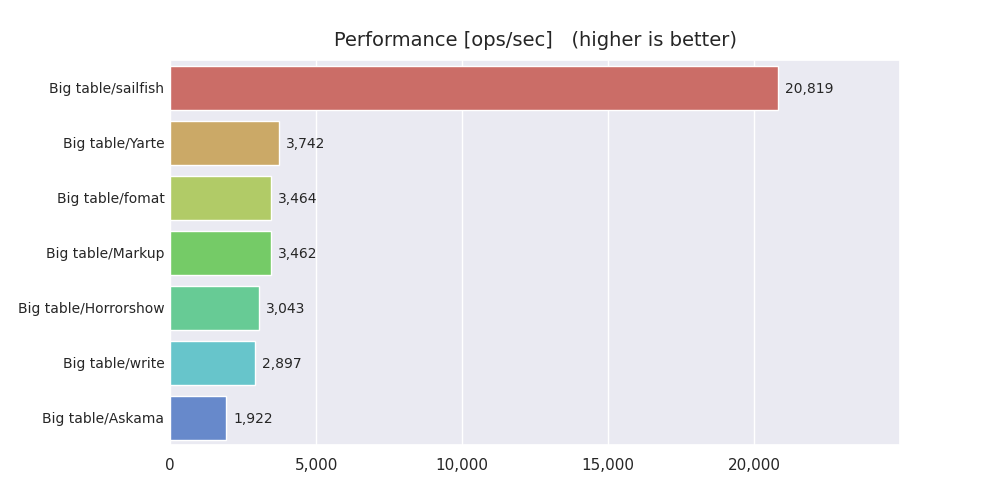
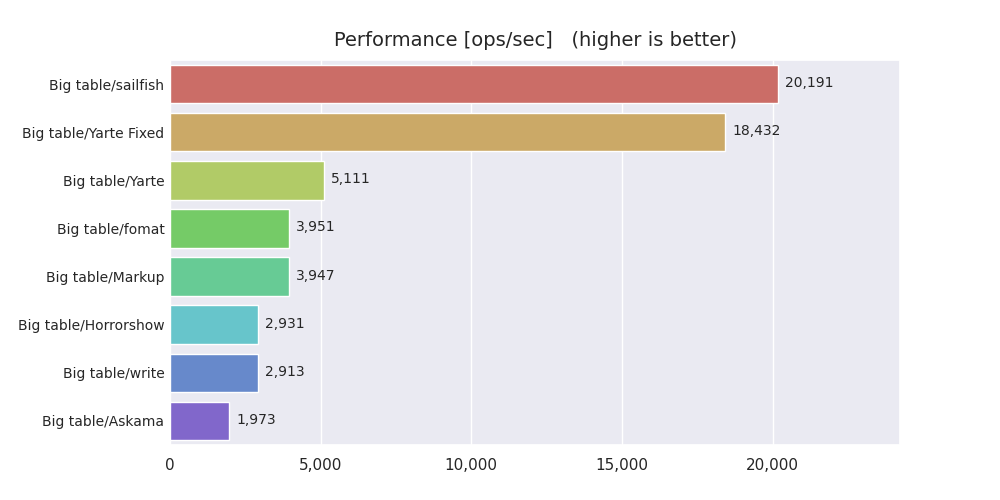
Update benchmark result
[skip ci]

diff --git a/benches/src/yarte_fixed.rs b/benches/src/yarte_fixed.rs
@@ -1,0 +1,74 @@
+use yarte::TemplateFixed;
+
+pub fn big_table(b: &mut criterion::Bencher<'_>, size: &usize) {
+    let mut table = Vec::with_capacity(*size);
+    for _ in 0..*size {
+        let mut inner = Vec::with_capacity(*size);
+        for i in 0..*size {
+            inner.push(i);
+        }
+        table.push(inner);
+    }
+    let ctx = BigTable { table };
+    b.iter(|| {
+        let mut buf = String::with_capacity(109915);
+        unsafe {
+            buf.as_mut_vec().set_len(109915);
+            let b = ctx.call(buf.as_bytes_mut()).unwrap();
+            buf.as_mut_vec().set_len(b);
+        }
+        buf
+    });
+}
+
+#[derive(TemplateFixed)]
+#[template(path = "big-table.hbs")]
+struct BigTable {
+    table: Vec<Vec<usize>>,
+}
+
+pub fn teams(b: &mut criterion::Bencher<'_>) {
+    let teams = Teams {
+        year: 2015,
+        teams: vec![
+            Team {
+                name: "Jiangsu".into(),
+
+                score: 43,
+            },
+            Team {
+                name: "Beijing".into(),
+                score: 27,
+            },
+            Team {
+                name: "Guangzhou".into(),
+                score: 22,
+            },
+            Team {
+                name: "Shandong".into(),
+                score: 12,
+            },
+        ],
+    };
+    b.iter(|| {
+        let mut buf = String::with_capacity(239);
+        unsafe {
+            buf.as_mut_vec().set_len(239);
+            let b = teams.call(buf.as_bytes_mut()).unwrap();
+            buf.as_mut_vec().set_len(b);
+        }
+        buf
+    });
+}
+
+#[derive(TemplateFixed)]
+#[template(path = "teams.hbs")]
+struct Teams {
+    year: u16,
+    teams: Vec<Team>,
+}
+
+struct Team {
+    name: String,
+    score: u8,
+}

diff --git a/benches/benches/all.rs b/benches/benches/all.rs
@@ -1,6 +1,6 @@
 use criterion::{criterion_group, criterion_main, Criterion};
 use benches::{
-    askama_bench, fomat, horrorshow_bench, markup_bench, sailfish, std_write, yarte_bench
+    askama_bench, fomat, horrorshow_bench, markup_bench, sailfish, std_write, yarte_bench, yarte_fixed
 };
 
 fn big_table(c: &mut Criterion) {
@@ -10,6 +10,7 @@ fn big_table(c: &mut Criterion) {
     g.bench_function("Horrorshow", |b| horrorshow_bench::big_table(b, &100));
     g.bench_function("Markup", |b| markup_bench::big_table(b, &100));
     g.bench_function("Yarte", |b| yarte_bench::big_table(b, &100));
+    g.bench_function("Yarte Fixed", |b| yarte_fixed::big_table(b, &100));
     g.bench_function("write", |b| std_write::big_table(b, &100));
     g.bench_function("sailfish", |b| sailfish::big_table(b, &100));
     g.finish();
@@ -22,6 +23,7 @@ fn teams(c: &mut Criterion) {
     g.bench_function("Horrorshow", |b| horrorshow_bench::teams(b, &0));
     g.bench_function("Markup", |b| markup_bench::teams(b, &0));
     g.bench_function("Yarte", |b| yarte_bench::teams(b));
+    g.bench_function("Yarte Fixed", |b| yarte_fixed::teams(b));
     g.bench_function("write", |b| std_write::teams(b, &0));
     g.bench_function("sailfish", |b| sailfish::teams(b));
     g.finish();

diff --git a/benches/src/lib.rs b/benches/src/lib.rs
@@ -5,3 +5,4 @@ pub mod markup_bench;
 pub mod sailfish;
 pub mod std_write;
 pub mod yarte_bench;
+pub mod yarte_fixed;
